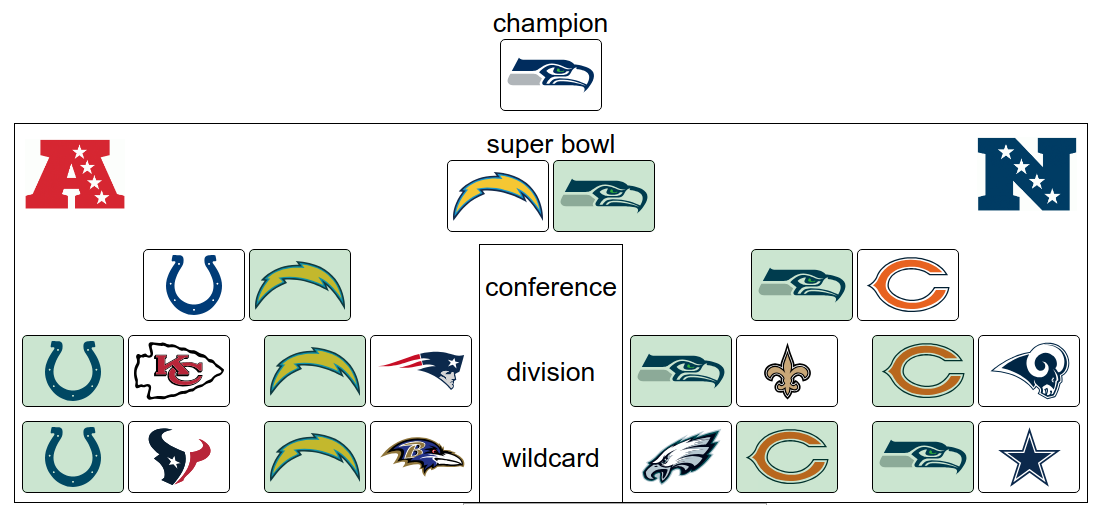
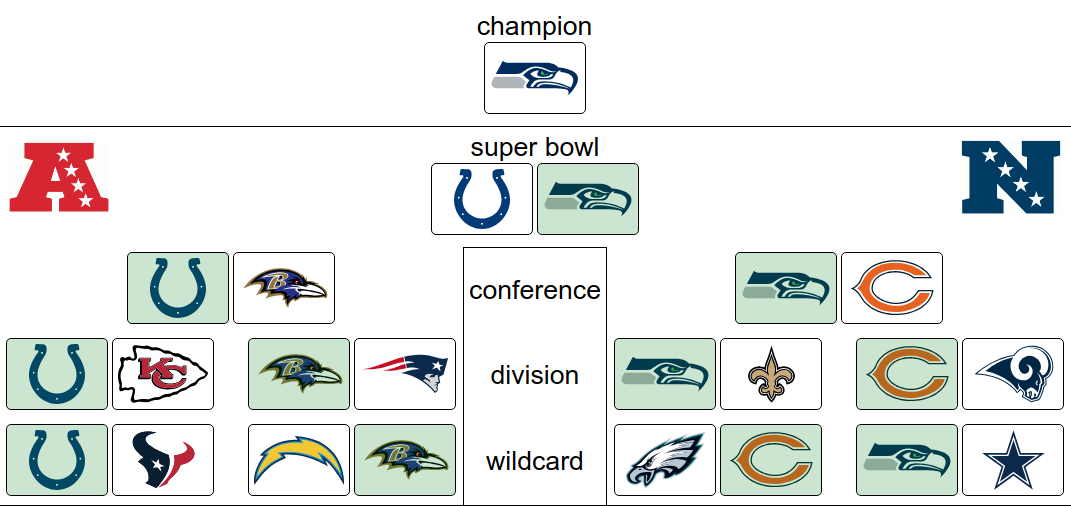
slight adjustments :D
more notes

diff --git a/src/pages/play/2019-01-01-my-bracket/index.md b/src/pages/play/2019-01-01-my-bracket/index.md
@@ -10,6 +10,6 @@ tags:
 ---
 Definitely some close calls in there.
 
-I like the Colts as a sleeper. They have a deep DL and a great, diverse passing offense. Kind of reminds me of the Giants of about 10 years ago. If the Texans can get by them though, I also think they can go far. The Pats are as solid as ever, but ironically some of the offensive guys are aging faster than Brady. I think they're just out of weapons, offensively and defensively. I like the Chiefs, but I think the lack of defense makes them too one-dimensional.
+I like the Colts as a sleeper. They have a deep DL and a great, diverse passing offense. Kind of reminds me of the Giants of about 10 years ago. If the Texans can get by them though, I also think they can go far. The Pats are as solid as ever, but ironically some of the offensive guys are aging faster than Brady. I think they're just out of weapons, offensively and defensively. I like the Chiefs, but I think the lack of defense makes them too one-dimensional. The Chargers have no energy to excel in adversity, although I like how they built the team. The Ravens are a terrible matchup for them, who have had only one 200 yard passing game since week 9 (it was against the Chargers). The Ravens also match up great against the Pats for the week after. Unless Lamar Jackson can pull a Kaepernick though, I think the more balanced team in the Colts can beat them to get to the Superbowl.
 
-In the NFC, the Saints and Rams are two of the weakest 13-3 teams that I can recall seeing. The Saints offense has come up majorly short in the past several weeks, and their defense under Payton is never going to pick up the slack when it counts. The Rams have talent on D but can't seem to put it together. The Seahawks are built for a deep playoff run, with the best rushing attack in the league, a QB that is extremely good at taking care of the ball (and doesn't carry the team often, but he can), and a defense that has been able to do some pretty unique things (like stop the Chiefs passing attack). I can say almost the same for the Bears, except Trubisky is more of a handicap from what I know about him.
+In the NFC, the Saints and Rams are two of the weakest 13-3 teams that I can recall seeing. The Saints offense has come up majorly short in the past several weeks, and their defense under Payton is never going to pick up the slack when it counts. The Rams have talent on D but can't seem to put it together. The Seahawks are built for a deep playoff run, with the best rushing attack in the league, a QB that is extremely good at taking care of the ball (and doesn't carry the team often, but he can), and a defense that has been able to do some pretty unique things (like stop the Chiefs passing attack). I can say almost the same for the Bears, except Trubisky is more of a handicap from what I know about him. The Eagles are figuratively and literally a wildcard. They're still built well, but do they have the same drive to win after a championship last year, and is anyone healthy enough to play QB?
